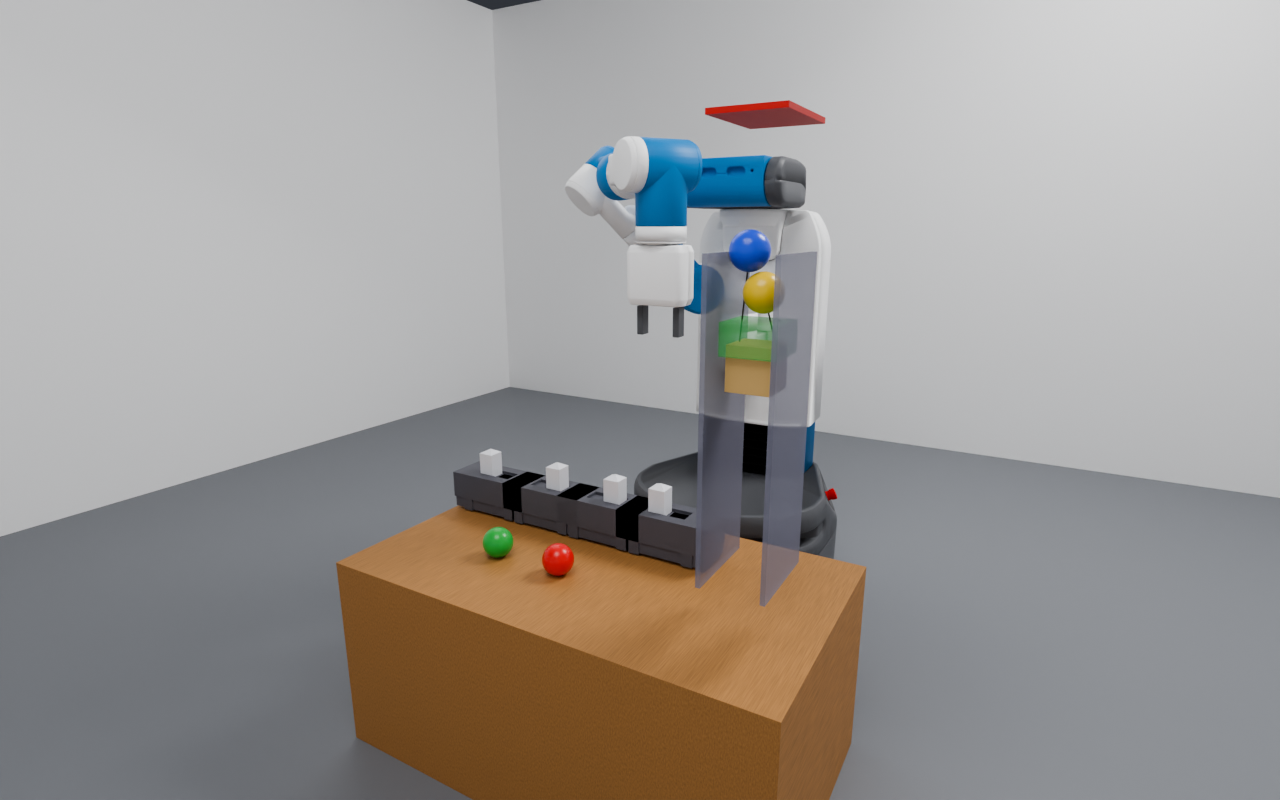
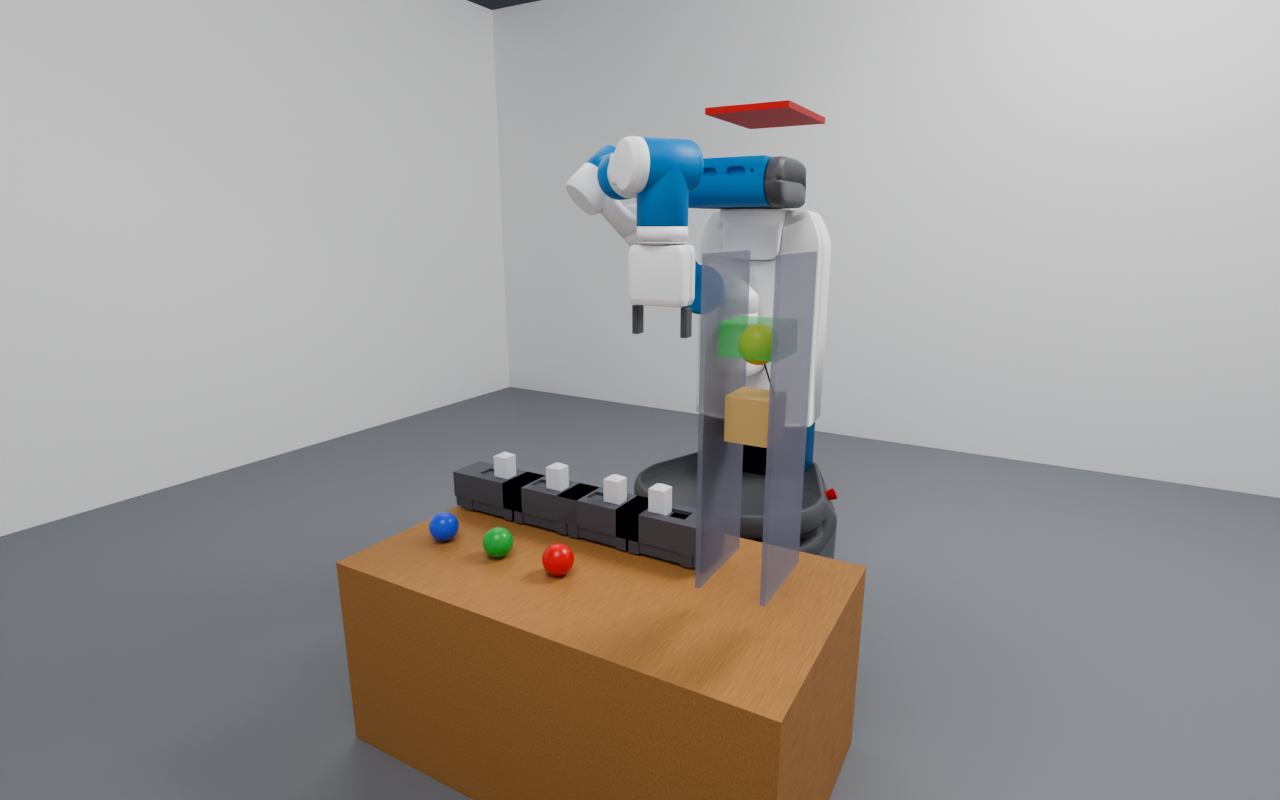
Space the trajectory stripes evenly and caption frames as action and outcome
The learning bar now takes a slot of its own, so every gap, between two
frames or beside the bar, is 11 wide and holds an arrow. Frames narrow
from 92 to 88 and keep their crops' aspect ratio.

Each frame's caption names what the agent does, and its detail what
follows: observed, or in a model frame, predicted. The Balloons test
frame moves from step 144 to step 117, where gold alone has settled at
0.76 m as the model predicted (0.7611 measured, 0.7607 predicted), so
the last frame shows the result of freeing blue. The robot labels change
in import_real_robot_frames.py and its archive; the frames are unchanged.

verify_figures.py now also fails when two words in a figure overlap.

diff --git a/scripts/paper_figures/build_figures.py b/scripts/paper_figures/build_figures.py
@@ -837,9 +837,12 @@ STRIPE_CROPS = {
     "boil": (240, 240, 830, 700),
     "fan": (150, 170, 800, 678),
 }
-# Frames are 92 wide on a 103 pitch; simulated frames share one height and
-# the robot's photos keep their own aspect.
-STRIPE_FH, ROBOT_FH = 72, 64
+# Frames are 88 wide and the learning bar takes a slot of its own, so every
+# gap, between two frames or beside the bar, is 11 wide and holds an arrow.
+# Simulated frames share one height and the robot's photos keep their own
+# aspect, both that of their crops.
+STRIPE_FW, STRIPE_GAP, BAR_W = 88, 11, 9
+STRIPE_FH, ROBOT_FH = 69, 61
 StripeFrame = Tuple[Path, Optional[Sequence[int]], str, str, bool]
 
 
@@ -875,8 +878,9 @@ def _advance(parts: Sequence[Segment], size: float, weight: str) -> float:
 
 def _learning_bar(d: Drawing, x: float, y: float, h: float,
                   learned: Sequence[str]) -> None:
-    """A teal bar in a frame gap, labelled with what the agent learns."""
-    d.rect(x, y, 9, h, fill=TEAL, stroke="none", radius=3)
+    """A teal bar between two frame gaps, labelled with what the agent
+    learns."""
+    d.rect(x, y, BAR_W, h, fill=TEAL, stroke="none", radius=3)
     parts: List[Segment] = ["learns "]
     for k, symbol in enumerate(learned):
         if k:
@@ -887,28 +891,28 @@ def _learning_bar(d: Drawing, x: float, y: float, h: float,
                "bold")
     # Rotated to read upwards; the baseline sits right of the bar's center
     # so the lowercase letters center across the bar.
-    e.set("transform",
-          f"translate({x + 4.5 + 0.36 * size:g} {y + h / 2:g}) rotate(-90)")
+    baseline = x + BAR_W / 2 + 0.36 * size
+    e.set("transform", f"translate({baseline:g} {y + h / 2:g}) rotate(-90)")
 
 
 def _stripe(d: Drawing, y: float, stripe: Stripe) -> None:
     """Draw one titled row of five captioned frames joined by arrows."""
-    fh = stripe.height
+    fh, fw = stripe.height, STRIPE_FW
     e = d.text(0, 0, stripe.title, 9.6, TEAL, "bold", "middle")
     e.set("transform", f"translate(12 {y + fh / 2}) rotate(-90)")
+    x = 24
     for i, (source, crop, first, second, model) in enumerate(stripe.frames):
-        x = 24 + i * 103
         if model:
             # A state from the agent's own model, not from the environment:
             # the image sits inside the frame box and the dashed border
             # runs along the box, with a clear margin between them.
-            d.image(source, x + 2.2, y + 2.2, 87.6, fh - 4.4, crop)
+            d.image(source, x + 2.2, y + 2.2, fw - 4.4, fh - 4.4, crop)
         else:
-            d.image(source, x, y, 92, fh, crop)
+            d.image(source, x, y, fw, fh, crop)
         if model:
             d.rect(x + 0.5,
                    y + 0.5,
-                   91,
+                   fw - 1,
                    fh - 1,
                    fill="none",
                    stroke=TEAL,
@@ -923,12 +927,21 @@ def _stripe(d: Drawing, y: float, stripe: Stripe) -> None:
                    stroke="none",
                    radius=1.5)
             d.text(x + 16, y + 10.3, "model", 6.4, TEAL, "bold", "middle")
-        d.text(x + 46, y + fh + 10, first, 7.3, anchor="middle")
-        d.text(x + 46, y + fh + 19, second, 6.9, MUTED, anchor="middle")
+        # The action, then what follows: observed, or predicted in the model.
+        d.text(x + fw / 2, y + fh + 10, first, 7.3, anchor="middle")
+        d.text(x + fw / 2, y + fh + 19, second, 6.9, MUTED, anchor="middle")
+        x += fw
+        if i == len(stripe.frames) - 1:
+            break
+        # Each gap holds an arrow; the learning bar sits between two gaps.
+        d.arrow(x + 2, y + fh / 2, x + STRIPE_GAP - 2, y + fh / 2)
+        x += STRIPE_GAP
         if i == stripe.learn_after:
-            _learning_bar(d, x + 93, y, fh, stripe.learned)
-        elif i < len(stripe.frames) - 1:
-            d.arrow(x + 94, y + fh / 2, x + 101, y + fh / 2)
+            _learning_bar(d, x, y, fh, stripe.learned)
+            x += BAR_W
+            d.arrow(x + 2, y + fh / 2, x + STRIPE_GAP - 2, y + fh / 2)
+            x += STRIPE_GAP
+    assert x == 528, x
 
 
 def _domain_stripes(domains: Sequence[str]) -> List[Stripe]:
@@ -964,11 +977,13 @@ def _robot_stripe() -> Stripe:
     robot = json.loads(robot_archive.read_text())
     slides = {m["episode"]: m for m in robot["measured"]}
     predicted = robot["test_plan"]["predicted_slide_cm"]
+    # Green stayed upright and grey fell flat, as the captions say.
+    assert slides[1]["fall_deg"] < 10 and slides[2]["fall_deg"] > 80
     seconds = [
-        f"slides {slides[1]['slide_cm']:.1f} cm",
-        f"slides {slides[2]['slide_cm']:.1f} cm, flat",
+        f"stays upright, {slides[1]['slide_cm']:.1f} cm",
+        f"falls flat, slides {slides[2]['slide_cm']:.1f} cm",
         "patch moved to 0.51 m",
-        "one gust",
+        "grey knocks green",
         f"{slides[3]['slide_cm']:.1f} cm; pred. "
         f"{predicted[0]:.1f}±{predicted[1]:.1f}",
     ]

diff --git a/scripts/paper_figures/verify_figures.py b/scripts/paper_figures/verify_figures.py
@@ -1,5 +1,6 @@
 """Verify migrated figure inputs, outputs, and execution-frame provenance."""
 import hashlib
+import itertools
 import json
 import os
 import xml.etree.ElementTree as ET
@@ -48,7 +49,8 @@ def main() -> None:
         assert len(svg.findall(f".//{SVG}image")) == count
         with pymupdf.open(OUTPUT / f"{name}.pdf") as doc:
             boxes = _outlined_boxes(svg, doc[0].rect.width)
-            for word in doc[0].get_text("words"):
+            words = doc[0].get_text("words")
+            for word in words:
                 assert doc[0].rect.contains(pymupdf.Rect(word[:4])), (name,
                                                                       word)
                 # Text sits wholly inside or outside each outlined box; the
@@ -57,6 +59,11 @@ def main() -> None:
                 for box in boxes:
                     assert box.contains(inner) or not box.intersects(inner), (
                         name, word[4], box)
+            # No two words overlap, so neighbouring captions stay apart.
+            glyphs = [(pymupdf.Rect(w[:4]) + (0.5, 0.5, -0.5, -0.5), w[4])
+                      for w in words]
+            for (a, text_a), (b, text_b) in itertools.combinations(glyphs, 2):
+                assert not a.intersects(b), (name, text_a, text_b)
     archive = json.loads((ROOT / "data/trajectories/figure3.json").read_text())
     robot = json.loads(
         (ROOT / "data/trajectories/real_fan_domino.json").read_text())
@@ -70,7 +77,7 @@ def main() -> None:
         assert hashlib.sha256(
             source.read_bytes()).hexdigest() == frame["sha256"], frame["name"]
     print("PASS: input/output hashes, image counts, text bounds, text inside "
-          "boxes, and frame provenance")
+          "boxes, no overlapping words, and frame provenance")
 
 
 if __name__ == "__main__":

diff --git a/scripts/paper_figures/import_real_robot_frames.py b/scripts/paper_figures/import_real_robot_frames.py
@@ -26,13 +26,14 @@ DRIVE = ("https://drive.google.com/drive/folders/"
          "1bcFFkaMb1ZKa0p1sK5KuMdQQ92xojnBO")
 # Two exploration probes, then the test after the patch was moved. These are
 # the moments of tracked-clip frames 106, 104, 45, 63, and 104, found by
-# matching the clips against the overlay-free videos.
+# matching the clips against the overlay-free videos. Each label names what
+# the agent does; build_figures.py adds what follows.
 SELECTION = [
-    ("casc_explore.mp4", 1655, 1, "Probe: green stays"),
-    ("casc_explore.mp4", 4313, 2, "Probe: grey slides"),
-    ("casc_test.mp4", 2505, 3, "Test: grey upwind"),
-    ("casc_test.mp4", 2595, 3, "Grey knocks green"),
-    ("casc_test.mp4", 2800, 3, "Green in patch"),
+    ("casc_explore.mp4", 1655, 1, "Probe: blow at green"),
+    ("casc_explore.mp4", 4313, 2, "Probe: blow at grey"),
+    ("casc_test.mp4", 2505, 3, "Test: stand grey upwind"),
+    ("casc_test.mp4", 2595, 3, "Test: blow at grey"),
+    ("casc_test.mp4", 2800, 3, "Test: measure the slide"),
 ]
 # Keeps the gripper at the button, the fan, both blocks, and both patch
 # placements in every frame.

diff --git a/docs/RENDERING.md b/docs/RENDERING.md
@@ -179,7 +179,9 @@ This reads local logs and restores original images; it is not the command for in
 
 Figure 3 and the appendix figure show one recorded EMPIRIC run per domain as a stripe of five frames, from the run's experiments to the solved test task.
 `scripts/paper_figures/data/trajectories/stripes.json` records each stripe's run, frames (level, episode and level step, or a saved model state), captions, and display settings; `MAIN_STRIPES` and `APPENDIX_STRIPES` in `build_figures.py` choose which stripes go where.
-Each row's `learn_after` and `learned` place a teal bar in the gap after that frame, labelled with what the agent learns there: its program $P$ and parameters $\theta$, or $\theta$ alone when the program adds no mechanism (Domino).
+Each frame's caption names what the agent does, and the line below it what follows: the observed outcome, or in a dashed model frame the model's prediction.
+Each row's `learn_after` and `learned` place a teal bar after that frame, labelled with what the agent learns there: its program $P$ and parameters $\theta$, or $\theta$ alone when the program adds no mechanism (Domino).
+The bar takes a slot of its own, so every gap, between two frames or beside the bar, has the same width (`STRIPE_GAP` in `build_figures.py`) and holds an arrow.
 The real-robot stripe learns after its two probes, as `_robot_stripe()` in `build_figures.py` states.
 Level steps run on across a level's episodes, and a reset costs one step.
 
